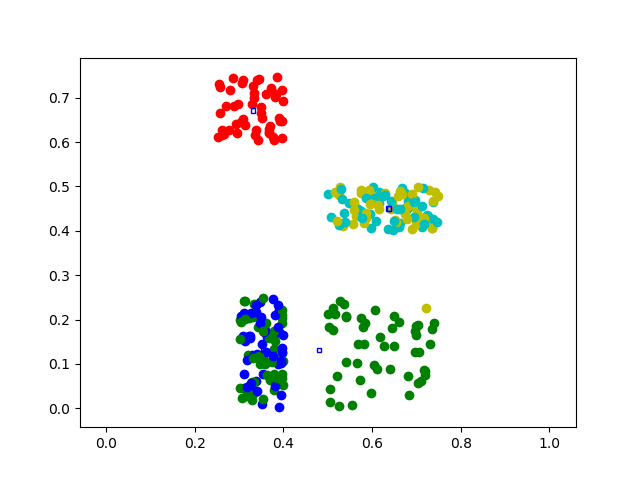
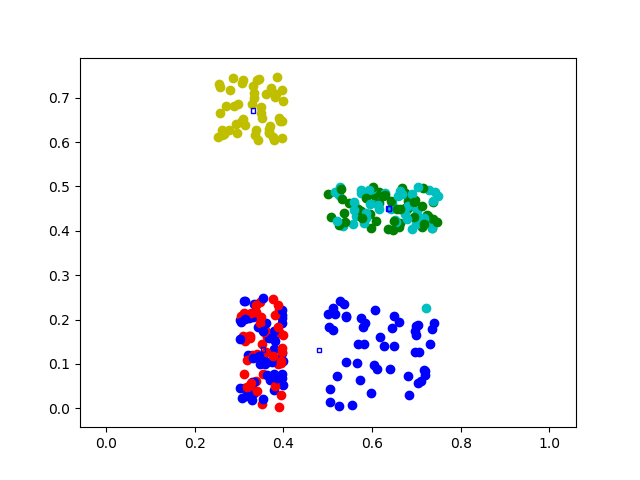
all parts implemented

diff --git a/FCM.py b/FCM.py
@@ -145,16 +145,20 @@ if __name__ == "__main__":
     df = df_full[features]
     print("the first coordinate", list(df.iloc[0]))
     # Maximum number of iterations
-    maximum_iteration = 50
+    maximum_iteration = 1000
     # Number of data points
     n = len(df)
     # Fuzzy parameter
-    m = 1.20
+    m = 1.2
 
-    for i in range(2, 9):
-        # Number of Clusters
-        c = i
-        labels, error, centers = fcm(c)
-        # print("the labels are", labels)
-        print(error)
-        plot(labels, centers)
+    c = 4
+    labels, error, centers = fcm(c)
+    print(error)
+    plot(labels, centers)
+    # for i in range(2, 9):
+    #     # Number of Clusters
+    #     c = i
+    #     labels, error, centers = fcm(c)
+    #     # print("the labels are", labels)
+    #     print(error)
+    #     plot(labels, centers)
